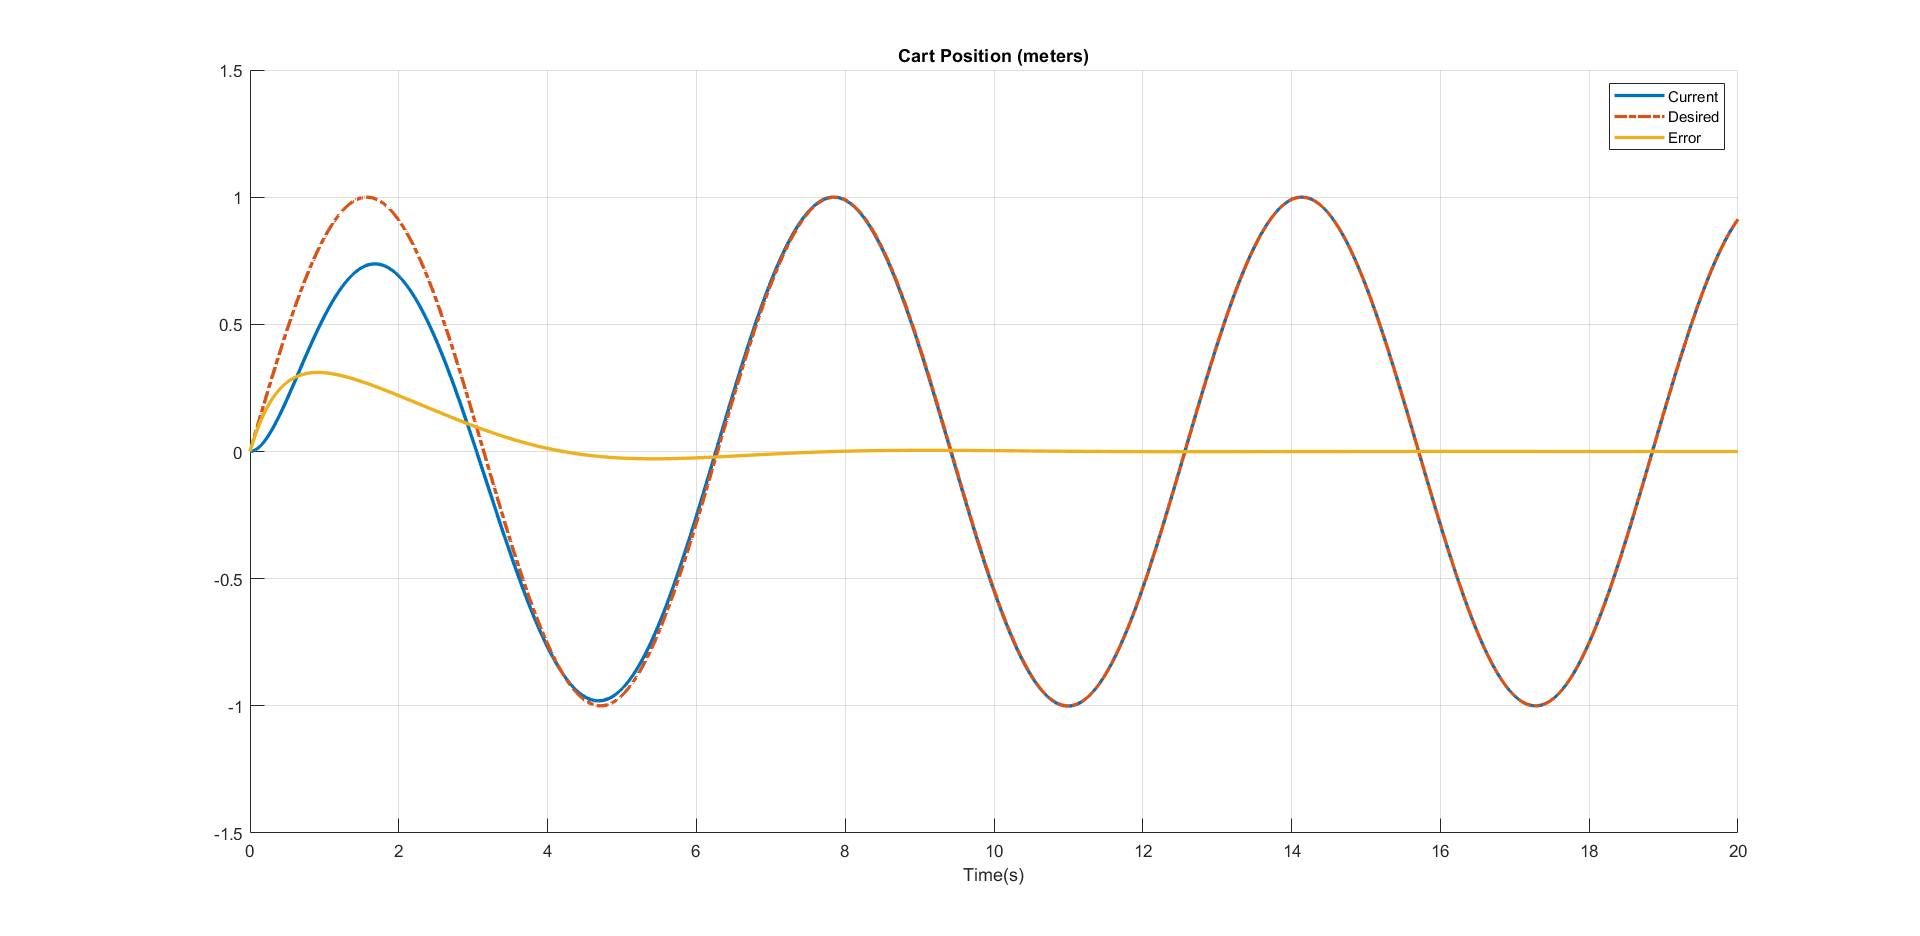
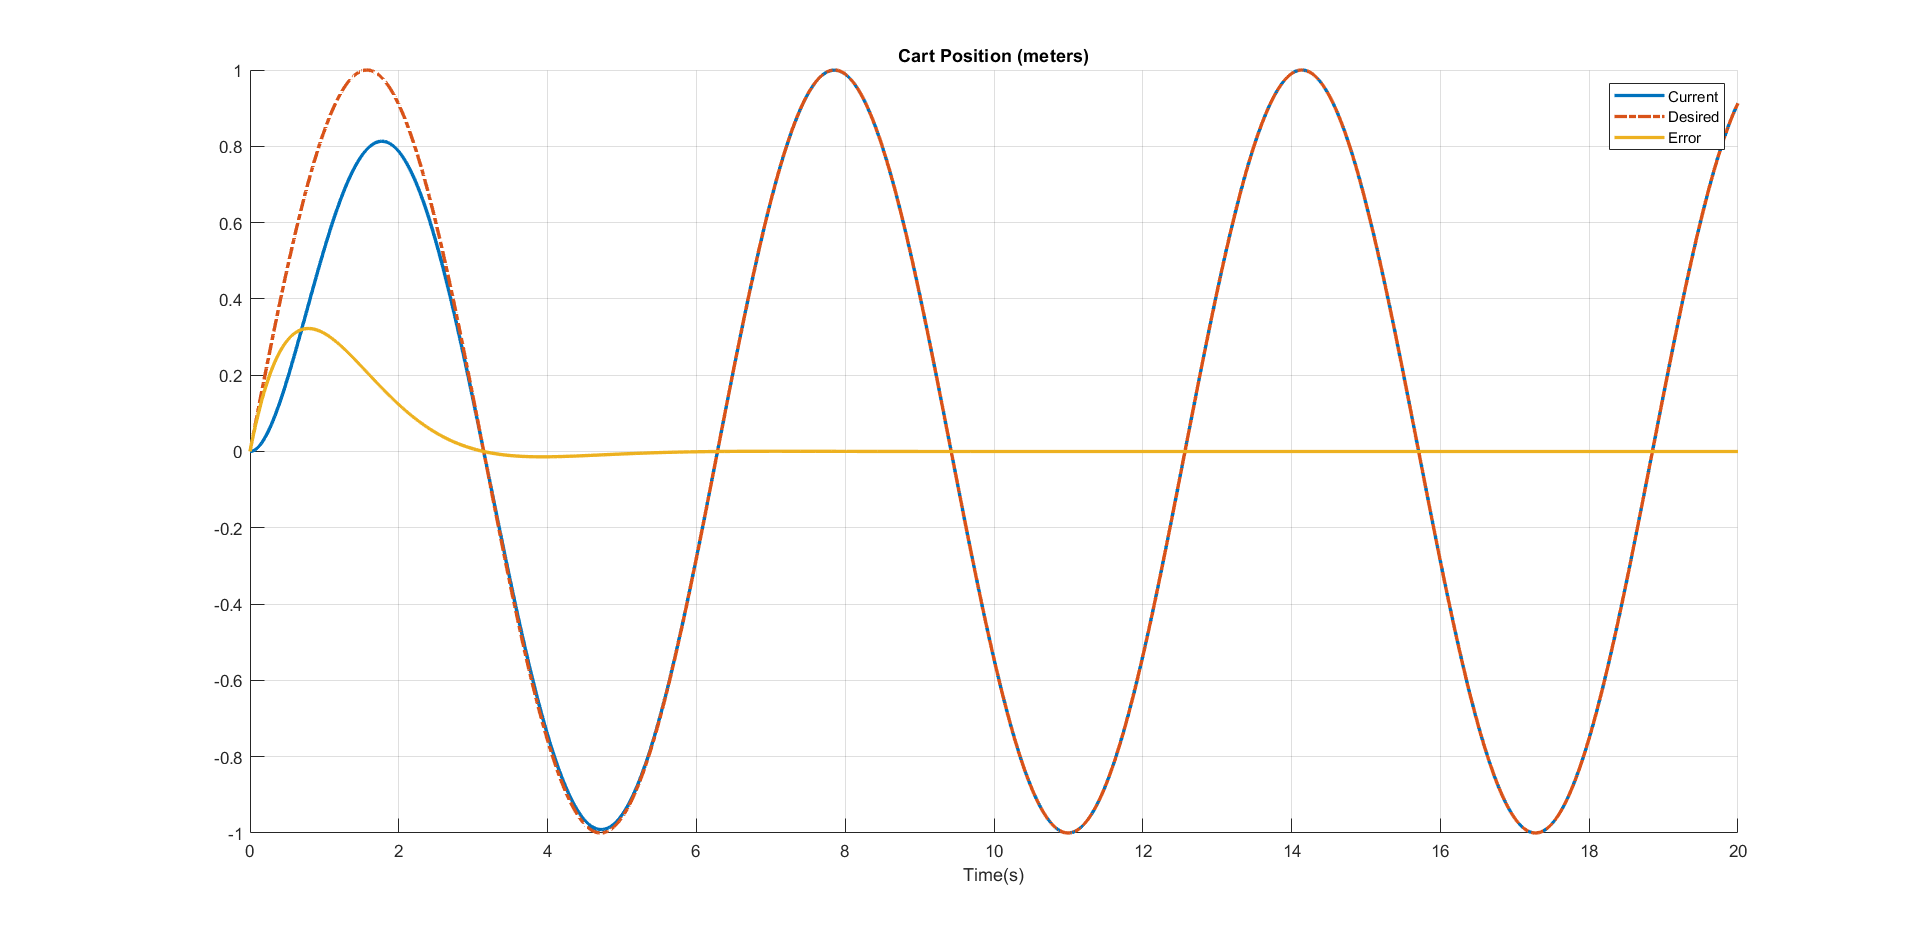
Rectified the response in case of external disturbance force

diff --git a/CartPole_Tracking.m b/CartPole_Tracking.m
@@ -37,7 +37,7 @@ w_0 = [0;0.5;0;0];
 
 %% Disturbance force on the control system
 % variable for deciding the type of disturbance force
-dist = 'Impulse'; % None/Impulse/Harmonic/Static
+dist = 'Static'; % None/Impulse/Harmonic/Static
 
 switch dist
     case 'None'
@@ -76,7 +76,7 @@ end
 % Harmonic trjaectory desired for the pole joint angle and the cart should
 % come to rest at its initial starting position
 
-Case = 'Case1';
+Case = 'Case2';
 
 switch Case
     case 'Case1'

diff --git a/ErrorDynamics_SSR.m b/ErrorDynamics_SSR.m
@@ -16,7 +16,7 @@ switch desired
     case 'Case1'
         wd = [0;sin(t);0;cos(t)];
     case 'Case2'
-        wd = [sin(t);0;cos(t);0];
+        wd = [sin(t);0;cos(t);0];   
 end
 
 % Current state vector
